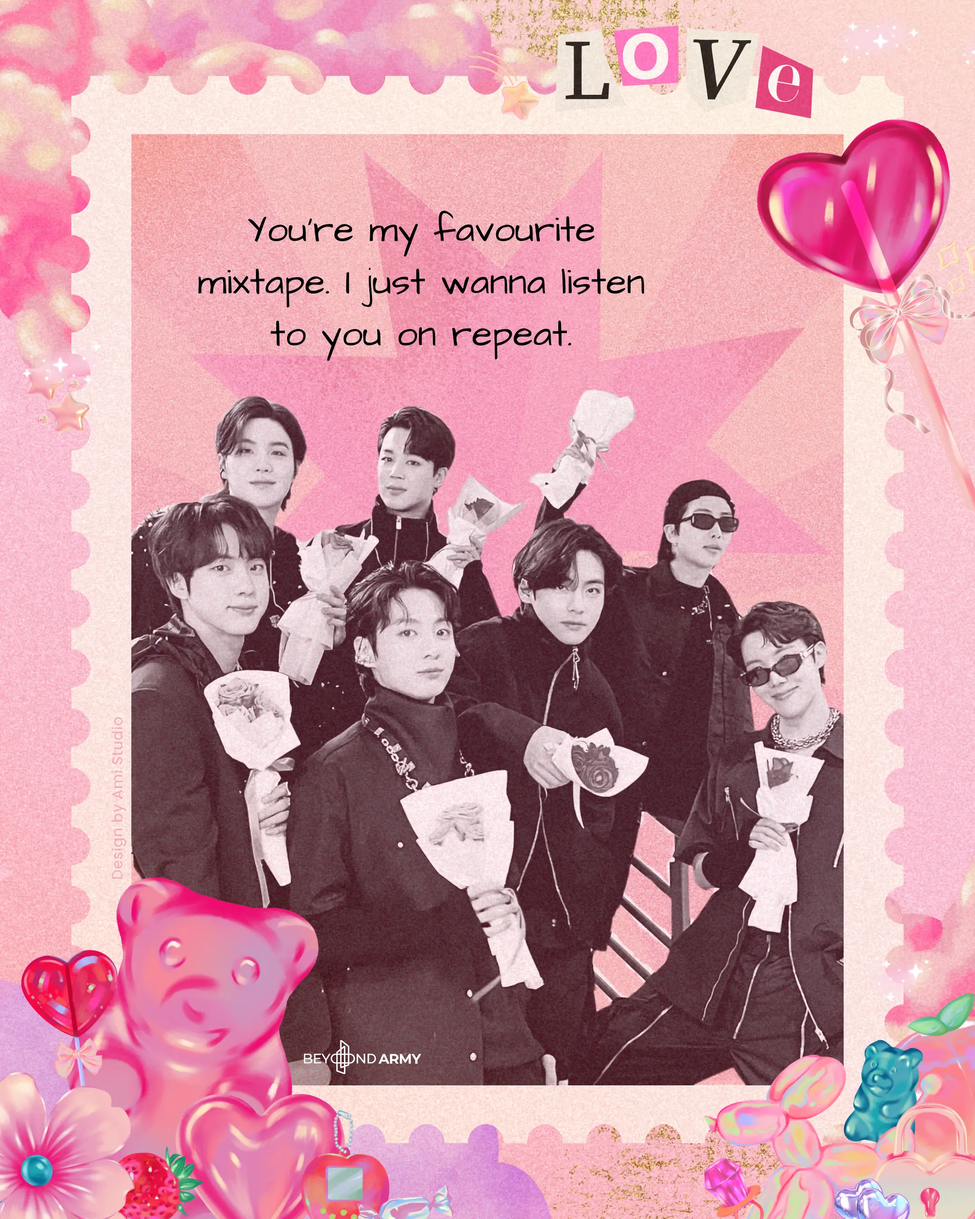
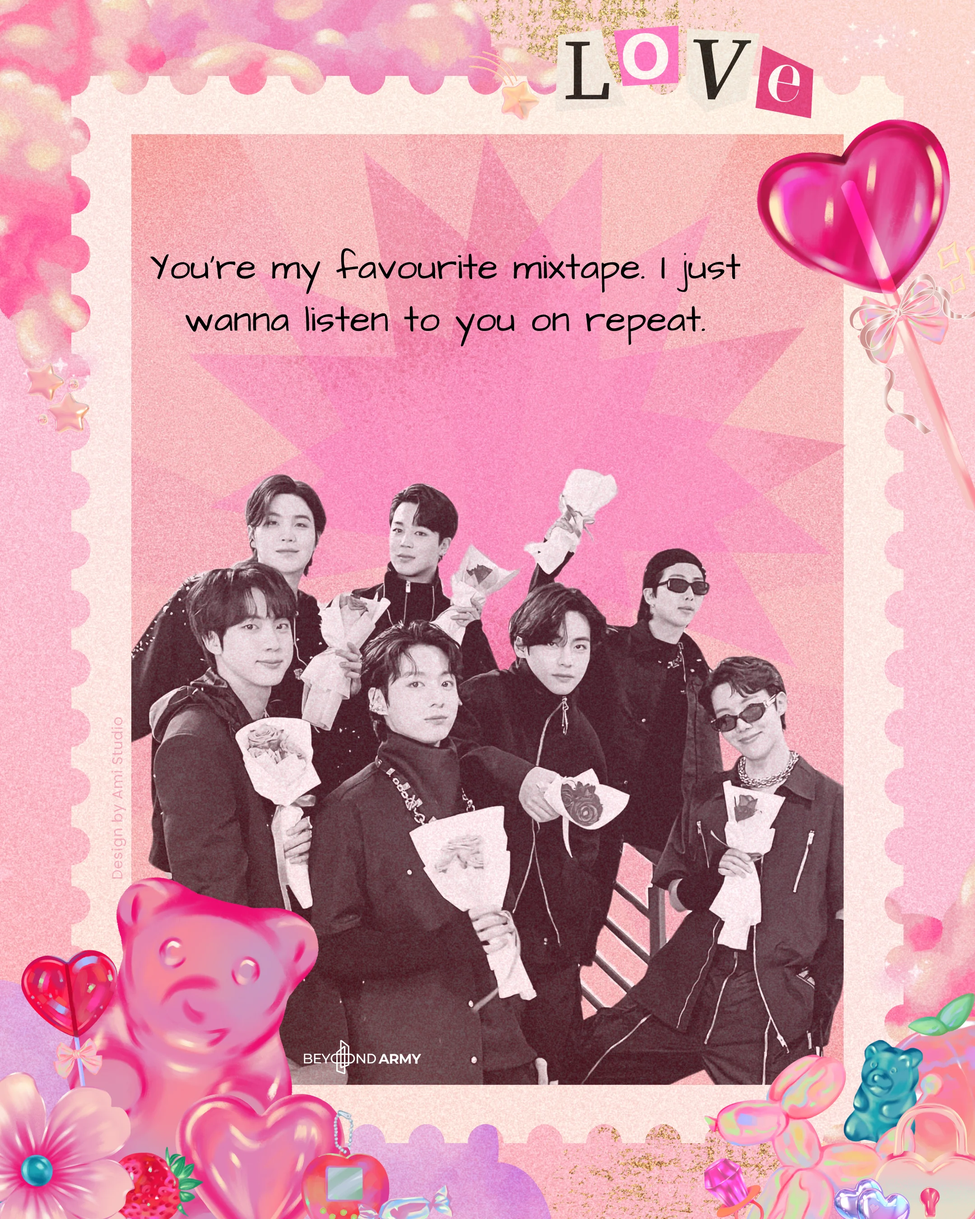
bts picture

Changed region(s): [[0.1241, 0.1244, 0.8685, 0.9022], [0.3102, 0.8089, 0.3722, 0.9022], [0.031, 0.28, 0.062, 0.3111]]

diff --git a/src/components/ValentinDay/data.js b/src/components/ValentinDay/data.js
@@ -29,18 +29,18 @@ export const membersBts = {
   btsflower: {
     div1: `${commonStylesDiv1}`,
     div2: "flex flex-col gap-20",
-    div3: `${commonTextStyles} top-[63px] left-[60px] text-pink-600`,
+    div3: `${commonTextStyles} top-[70px] left-[60px] text-pink-600`,
     p: `${commonPStyles} top-[145px] right-[180px] text-pink-600 `,
-    to: `${commontStyles} top-[63px] left-[85px] text-pink-600`,
+    to: `${commontStyles} top-[70px] left-[85px] text-pink-600`,
     from: `${commonfStyles} top-[145px] left-[224px] text-pink-600`,
   },
   rmflower: {
     div1: `${commonStylesDiv1}`,
     div2: "flex flex-col gap-20",
     div3: `${commonTextStyles} bottom-[263px] left-[59px] text-pink-600 `,
-    p: `${commonPStyles} bottom-[245px] left-[59px] text-pink-600`,
-    to: `${commontStyles} bottom-[263px] left-[80px] text-pink-600`,
-    from: `${commonfStyles} bottom-[245px] left-[95px] text-pink-600`,
+    p: `${commonPStyles} bottom-[230px] left-[59px] text-pink-600`,
+    to: `${commontStyles} bottom-[249px] left-[59px] text-pink-600`,
+    from: `${commonfStyles} bottom-[215px] left-[59px] text-pink-600`,
   },
   jinflower: {
     div1: `${commonStylesDiv1}`,
@@ -61,10 +61,10 @@ export const membersBts = {
   jhopeflower: {
     div1: `${commonStylesDiv1}`,
     div2: "flex flex-col gap-20",
-    div3: `${commonTextStyles} bottom-[110px] right-[235px] text-pink-900   `,
-    p: `${commonPStyles} bottom-[95px] right-[220px] text-pink-900 `,
-    to: `${commontStyles} bottom-[110px] left-[170px] text-pink-900 `,
-    from: `${commonfStyles} bottom-[95px] left-[185px] text-pink-900 `,
+    div3: `${commonTextStyles} bottom-[110px] right-[210px] text-pink-900   `,
+    p: `${commonPStyles} bottom-[95px] right-[195px] text-pink-900 `,
+    to: `${commontStyles} bottom-[110px] left-[196px] text-pink-900 `,
+    from: `${commonfStyles} bottom-[95px] left-[210px] text-pink-900 `,
   },
   jiminflower: {
     div1: `${commonStylesDiv1}`,
